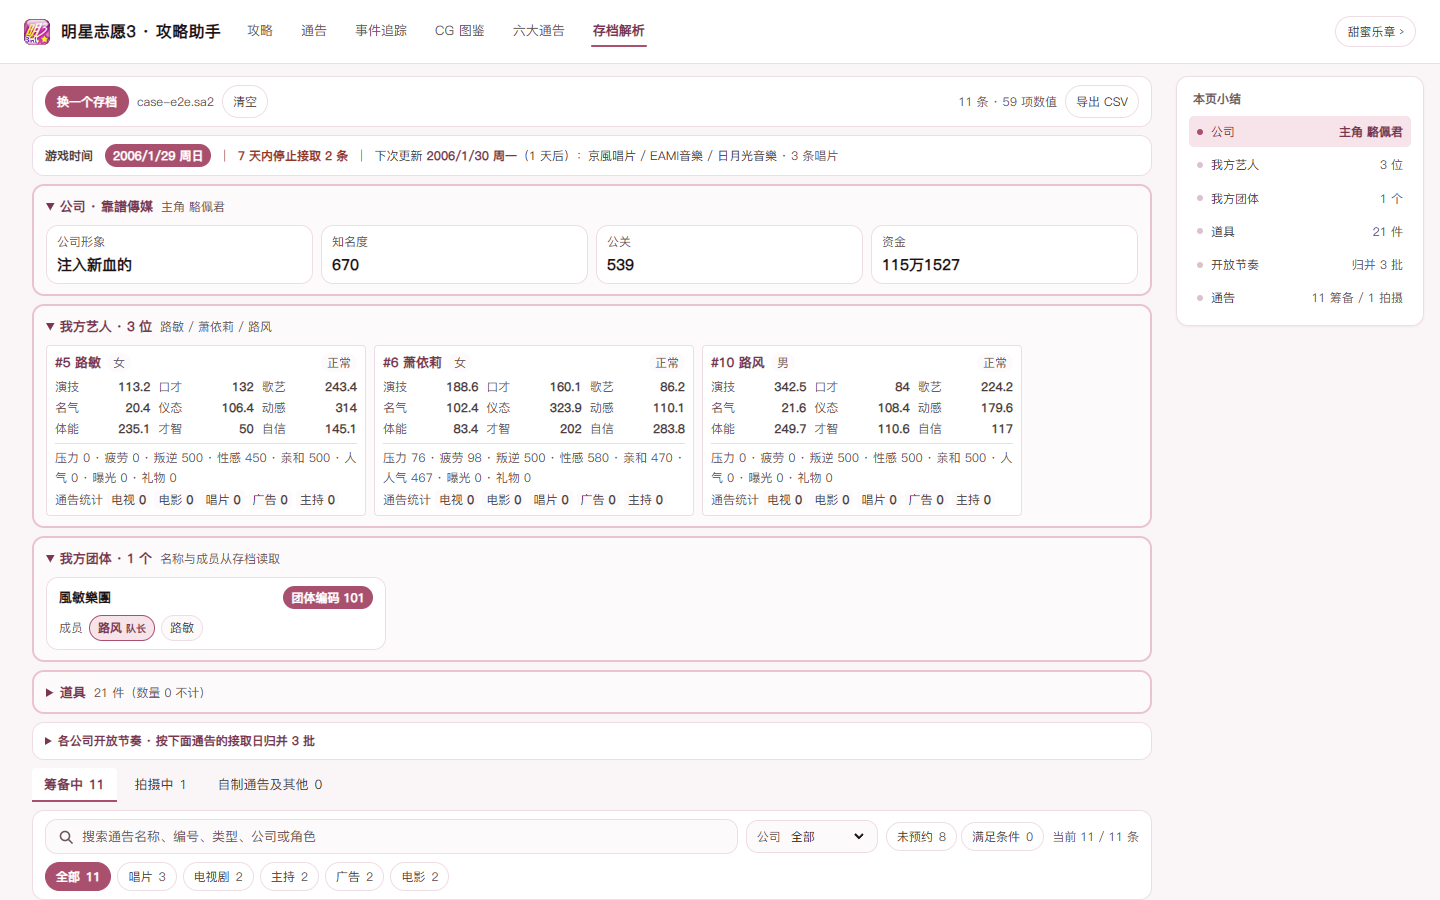
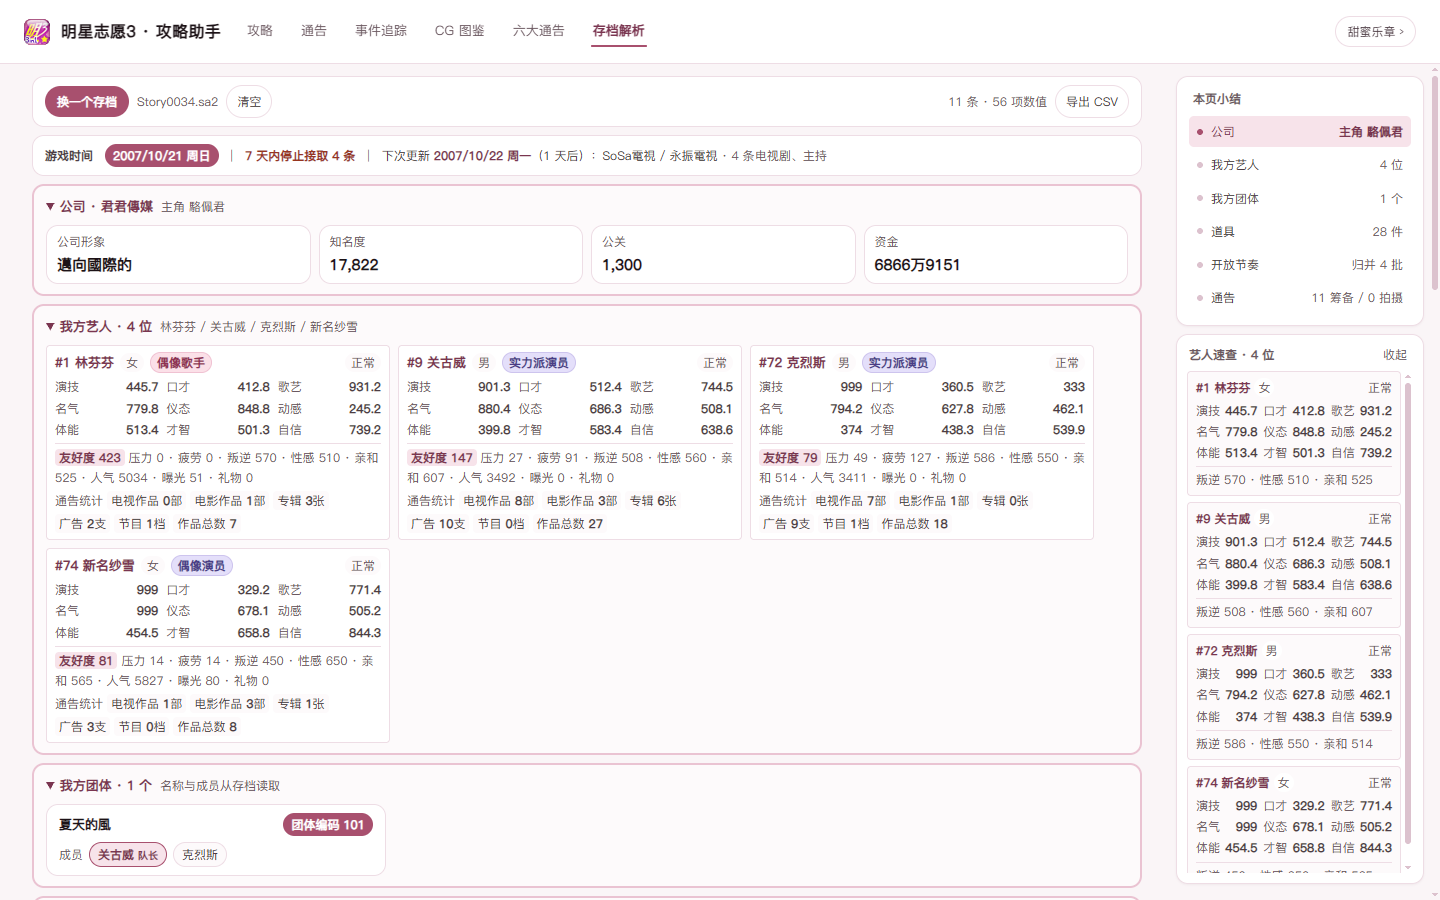
docs: readme for v1.12.0
Refresh the save-reader section (notice stats, titles and their OR branches,
self-made notices, filters and CSV export) and the screenshot, then bump the
version to 1.12.0.

diff --git a/README.md b/README.md
@@ -2,7 +2,7 @@
 
 《明星志愿3》与《明星志愿3 甜蜜乐章》的攻略网页版整理：攻略浏览、通告库、六大通告、事件追踪器（含备忘录）、CG 图鉴与存档解析。纯静态站点，无需登录，进度保存在本机浏览器。
 
-> 当前版本：**v1.11.0**
+> 当前版本：**v1.12.0**
 
 ## 两个站点
 
@@ -108,11 +108,16 @@
 
 - 新增「存档解析」页（`#/case`）：上传游戏存档 `.sa2` 文件，**只在本地浏览器解析、不上传**，把存档里对规划有用的信息摊开成可浏览的卡片
 - **公司**：显示经纪公司名称，资金以「万 / 亿」为单位；按开放日排定的公司更新批次逐批列出，配一条时钟条标出下一批还有多久
-- **我方艺人**：自动识别旗下签约艺人，折叠展示，列出属性、友好度与当前状态；按性别与角色要求做数值对比，谁合适接哪类角色一目了然
+- **我方艺人**：自动识别旗下签约艺人，折叠展示，列出属性、友好度与当前状态；卡片底部是游戏里的**通告统计**——电视作品 / 电影作品 / 专辑 / 广告 / 节目，以及五项相加的作品总数（含入司前的履历、不含还在拍的通告）
+- **称号**：每张艺人卡带当前称号徽标，鼠标移上去展开这条线的门槛，并算出下一档还差什么——已达标的门槛标绿，没达标的才写还差多少（如「节目 3 档，还差 1 档」）；同一档有几套拿法时按「或」分开列，属性门槛是各套共同的部分（实力派演员：电视 5 部 / 电影 5 部 / 电视 3 部 + 电影 3 部，任一套达成就升）
 - **我方团体**：读存档里的真实团体记录，显示团体名、编码与成员（首位是队长）
 - **道具**：按类型分三栏（一般物品 / 特殊物品 / 公司物品），每页 10 件可翻页，一眼看清手里有什么
 - **开放节奏**：把存档已排定的通告开放批次按周分组，方便规划接单
-- **通告**：分「筹备中 / 拍摄中」两类，列出角色、难度、接取与执行时间、所需数值与数值对比、以及已预约的艺人；所需数值会一并显示叛逆 / 性感 / 亲和这类隐藏接演门槛，并与旗下艺人逐项对比；可按类型、公司、搜索筛选
+- **通告**：分「筹备中 / 拍摄中 / 自制通告」三类
+  - 筹备中：列出角色、难度、接取与执行时间、所需数值与数值对比、以及已被谁预约；所需数值会一并显示叛逆 / 性感 / 亲和这类隐藏接演门槛，并与旗下艺人逐项对比；「未预约 / 满足条件」两档可一键筛选
+  - 拍摄中：按人显示已完成 / 需拍天数与酬劳，剩余档期排不下标红（违约）、余量太薄标金（逾期风险）
+  - 自制通告：自家出品的通告单列一页，沿用同一套档期与进度口径，一人一行不合并
+- 表格上方是筛选条：搜索框 + 类型 + 公司，三个条件取交集；工具栏可导出当前表格为 CSV
 - 右侧「本页小结」常驻小方块，列出六个板块摘要，点一下平滑跳到对应卡片、滚动时高亮当前所在板块
 - 右侧小结下方另有「艺人速查」：每位艺人一行状态与九项属性，底部并排叛逆 / 性感 / 亲和，对照通告表格时不用滚回顶部；可随时收起，窄屏隐藏
 - 数值对比里差哪项属性，鼠标移上去就提示能补这项属性的课程；叛逆 / 性感 / 亲和这类隐藏门槛的缺口单独用粉色标出，和能力差值区分
